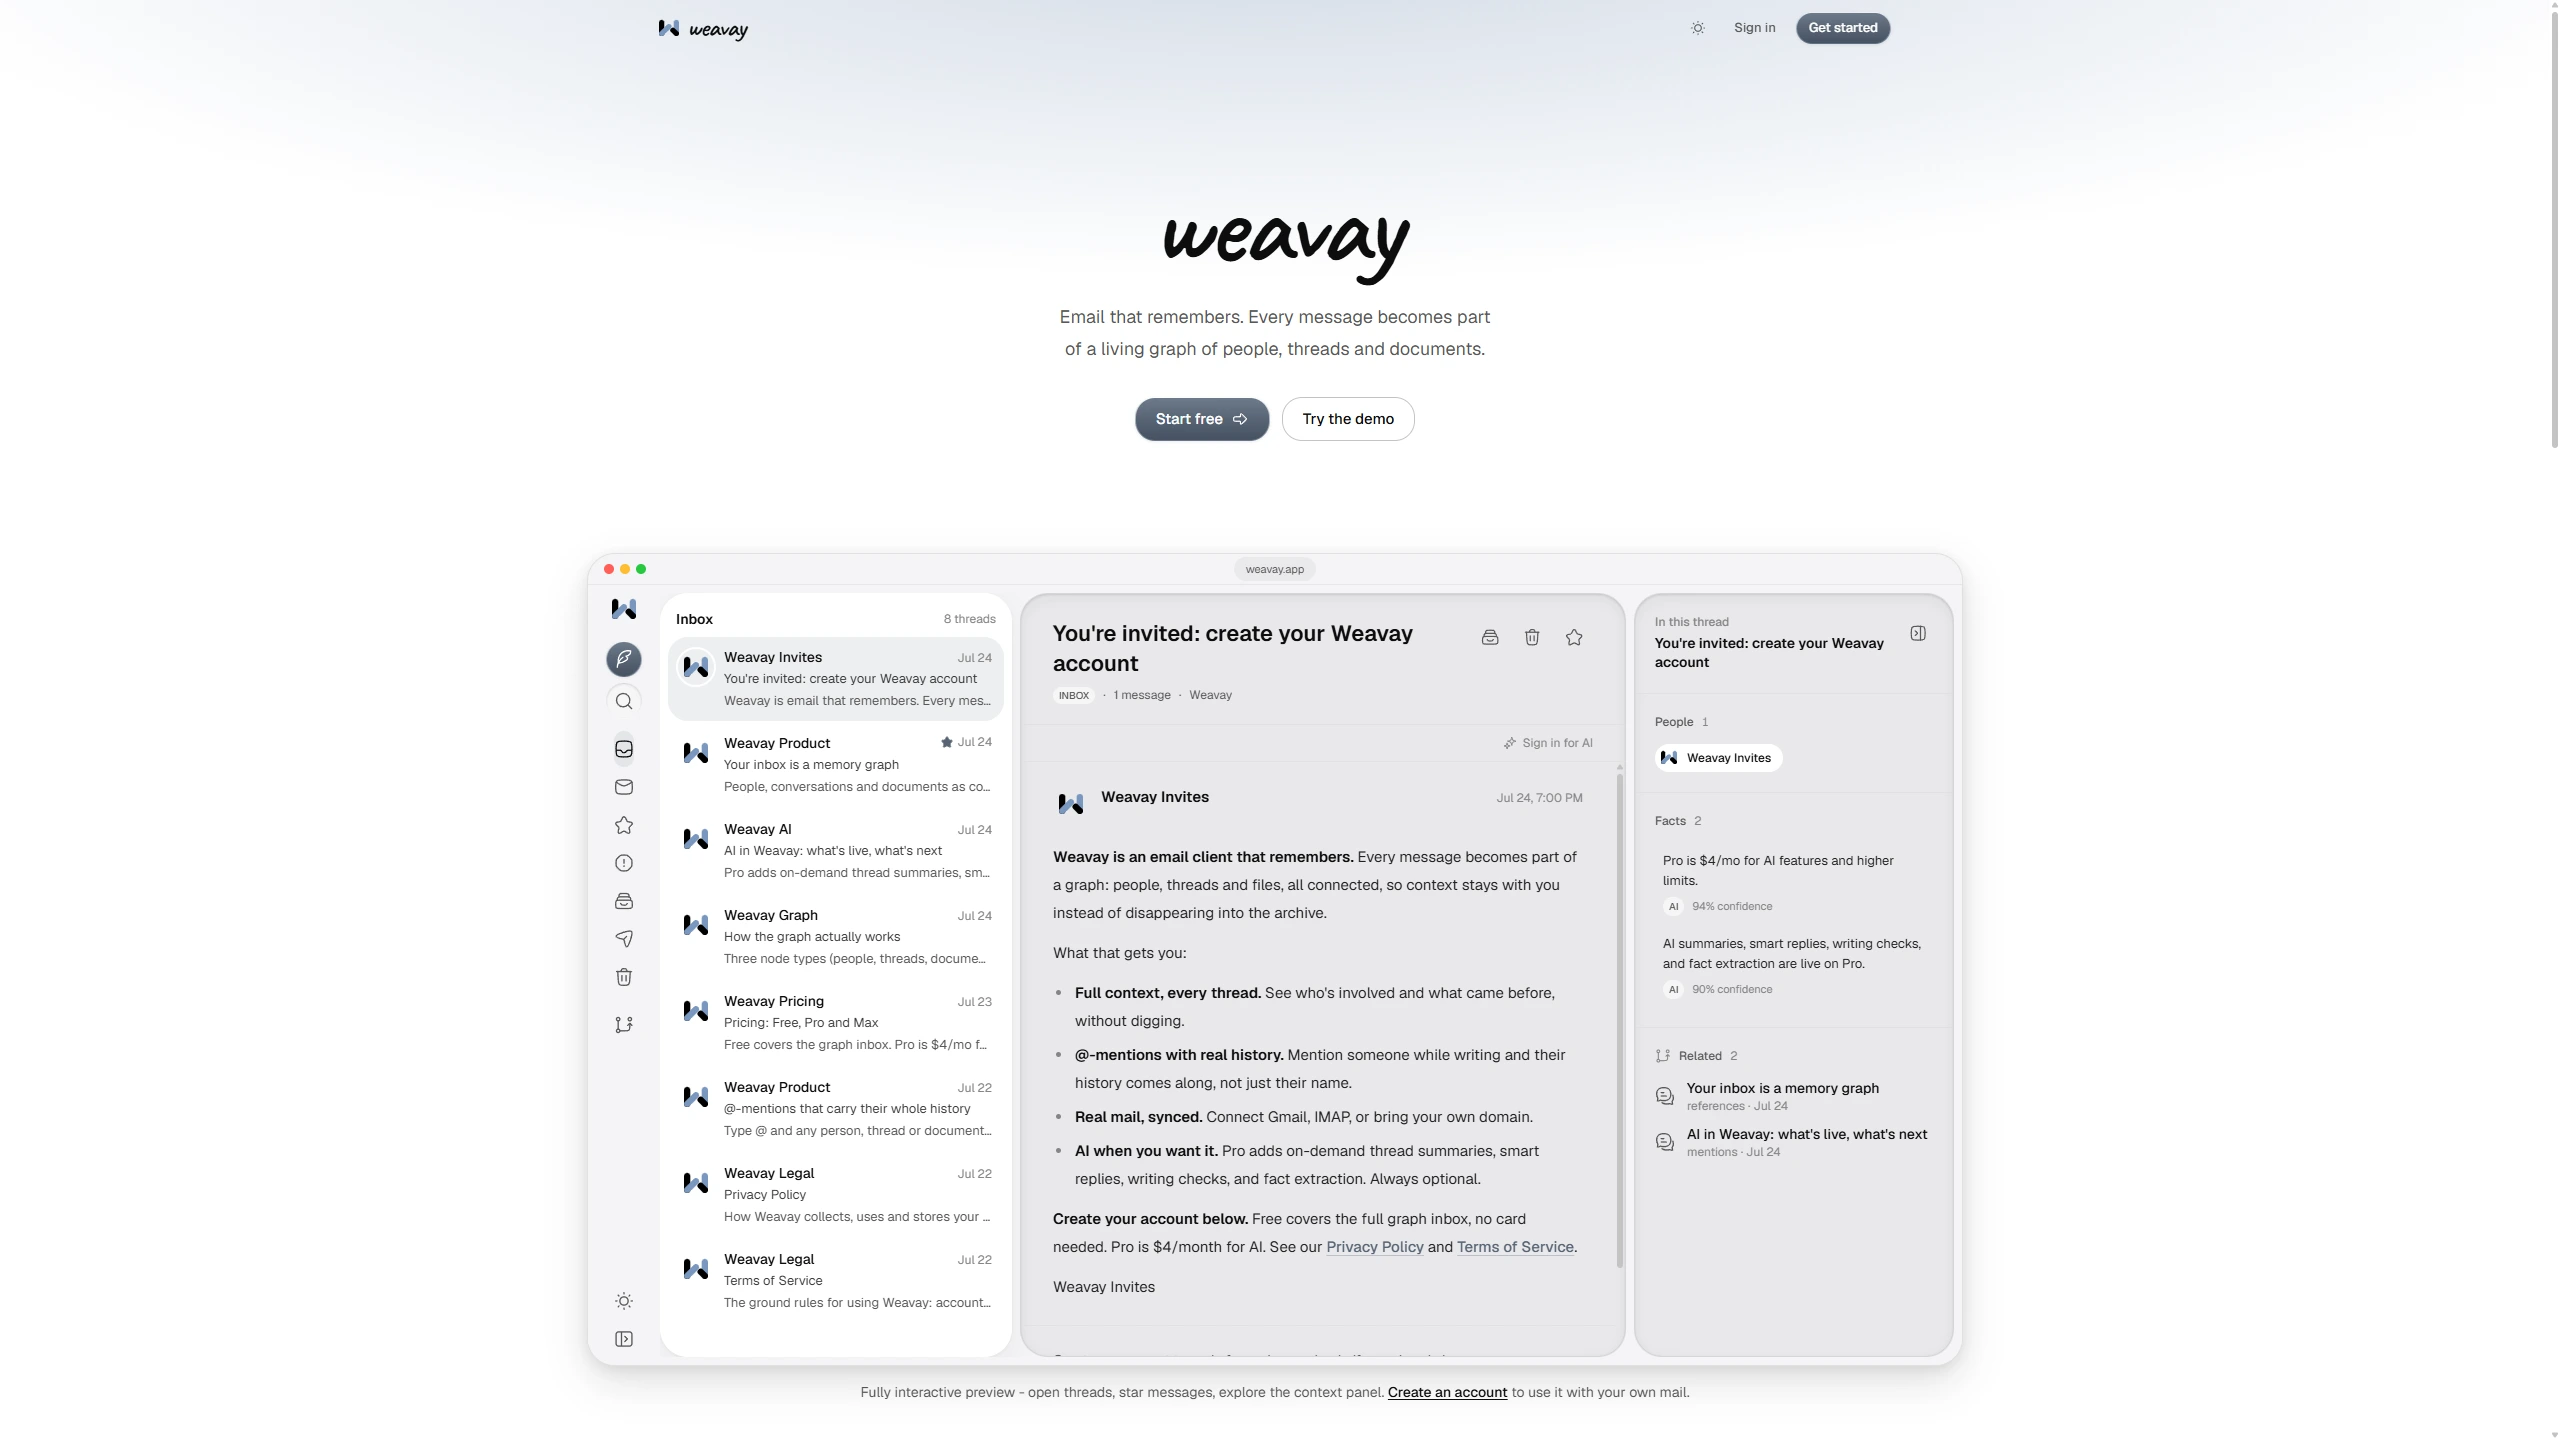
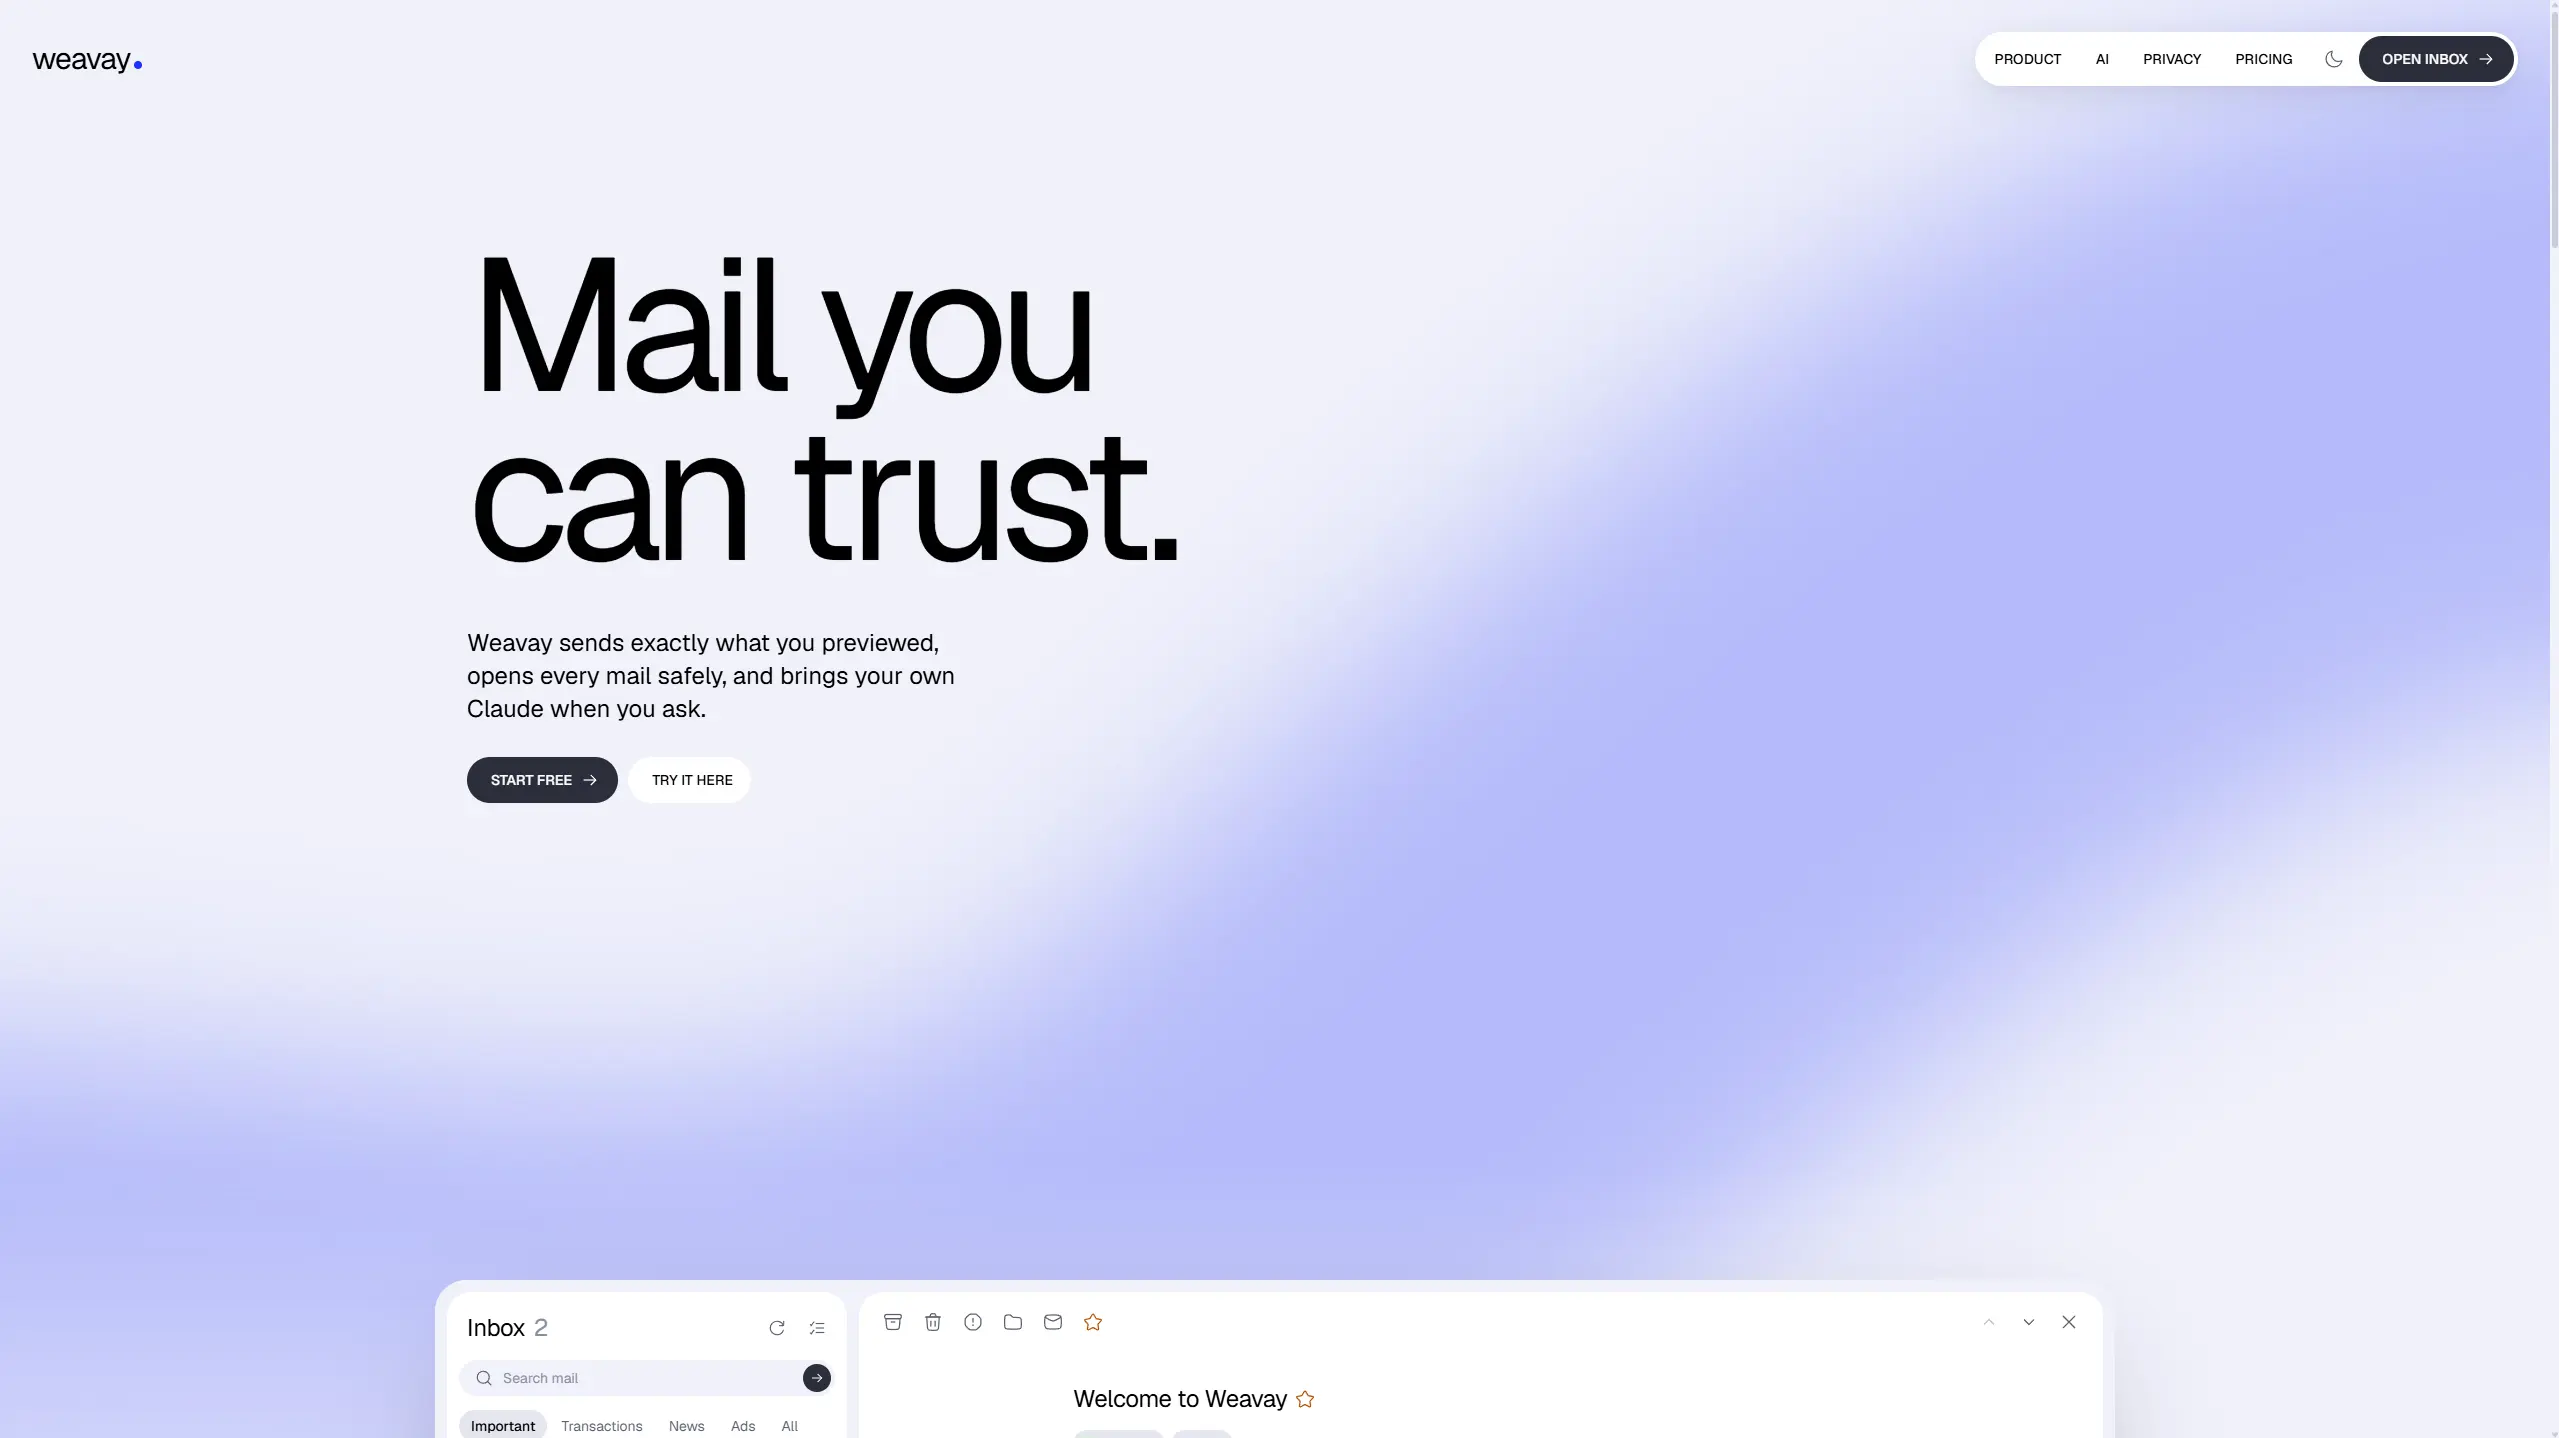
feat: update weavay

diff --git a/src/data/projects.ts b/src/data/projects.ts
@@ -163,9 +163,9 @@ export const projects: Project[] = [
     period: 'Since 2026',
     role: 'Solo developer',
     status: 'In development',
-    stack: ['TypeScript', 'Next.js', 'Postgres', 'IMAP / SMTP'],
+    stack: ['Go', 'TypeScript', 'React', 'Vite', 'Postgres', 'Docker', 'IMAP / SMTP'],
     cover: '/assets/work/weavay.webp',
-    coverAlt: 'The Weavay inbox and message graph',
+    coverAlt: 'The Weavay inbox with the welcome mail open',
     links: [{ label: 'weavay.app', href: 'https://weavay.app' }],
     monitors: [{ slug: 'weavay', label: 'weavay.app', url: 'https://weavay.app' }],
     featured: true,
